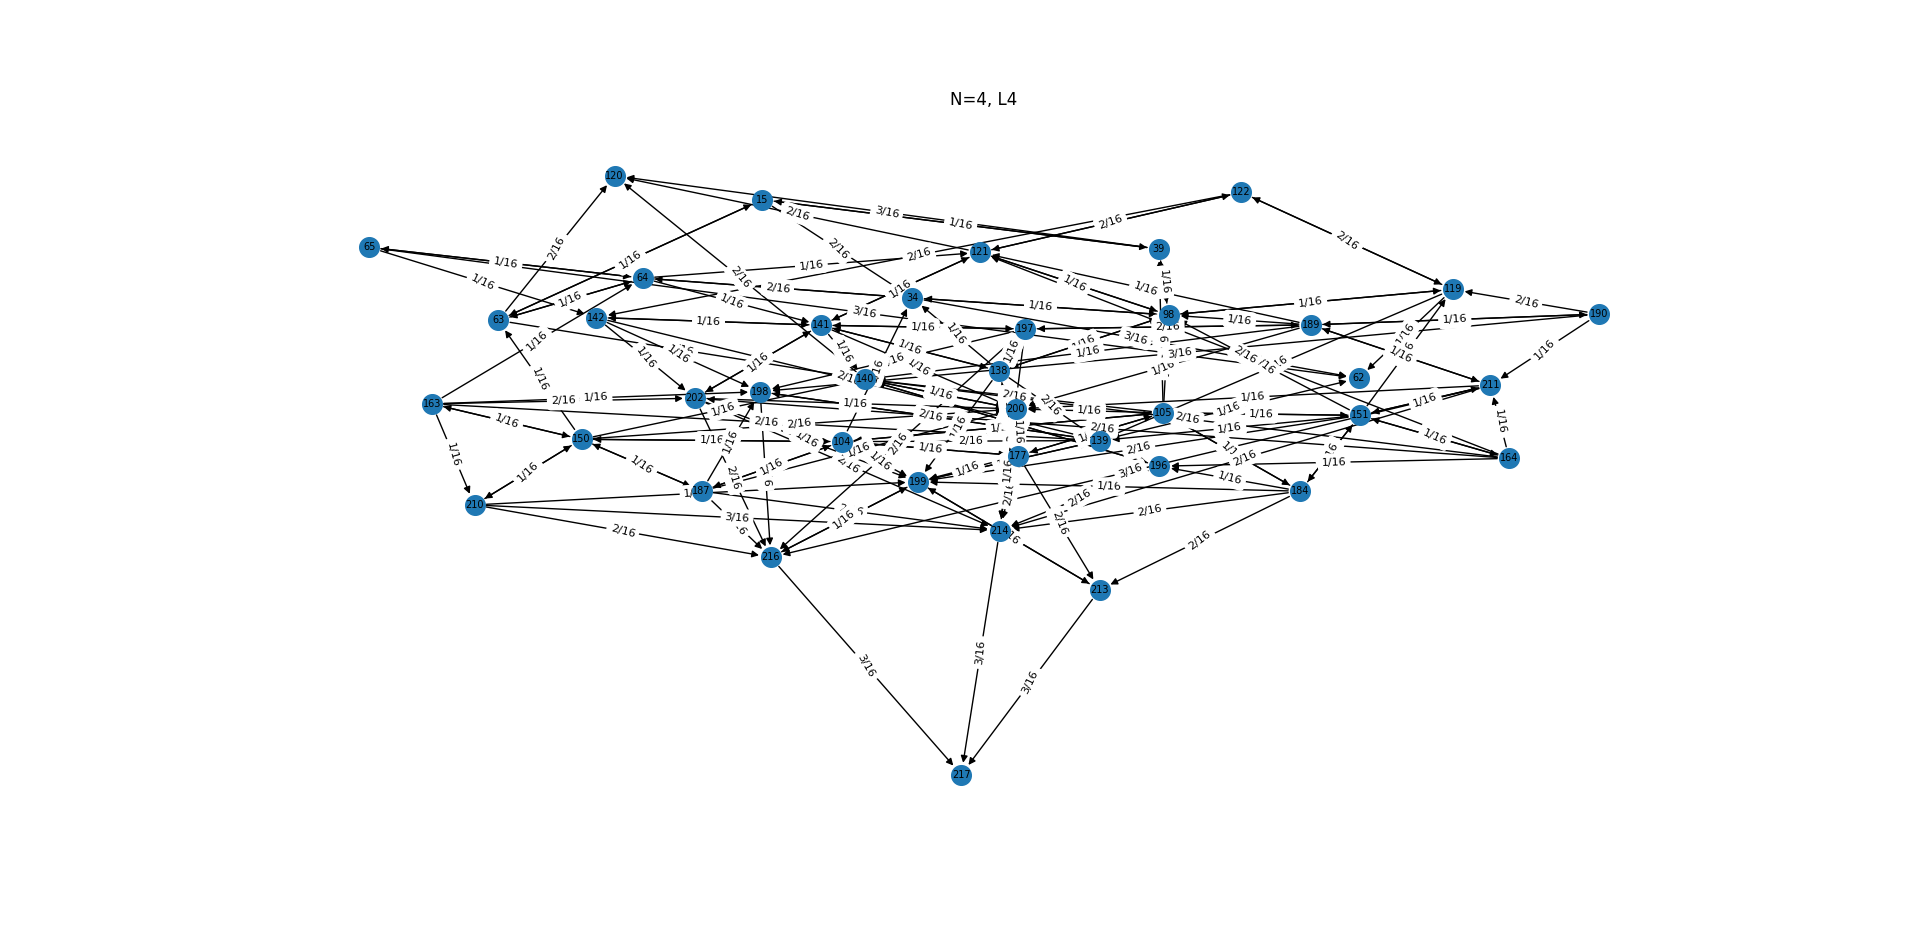
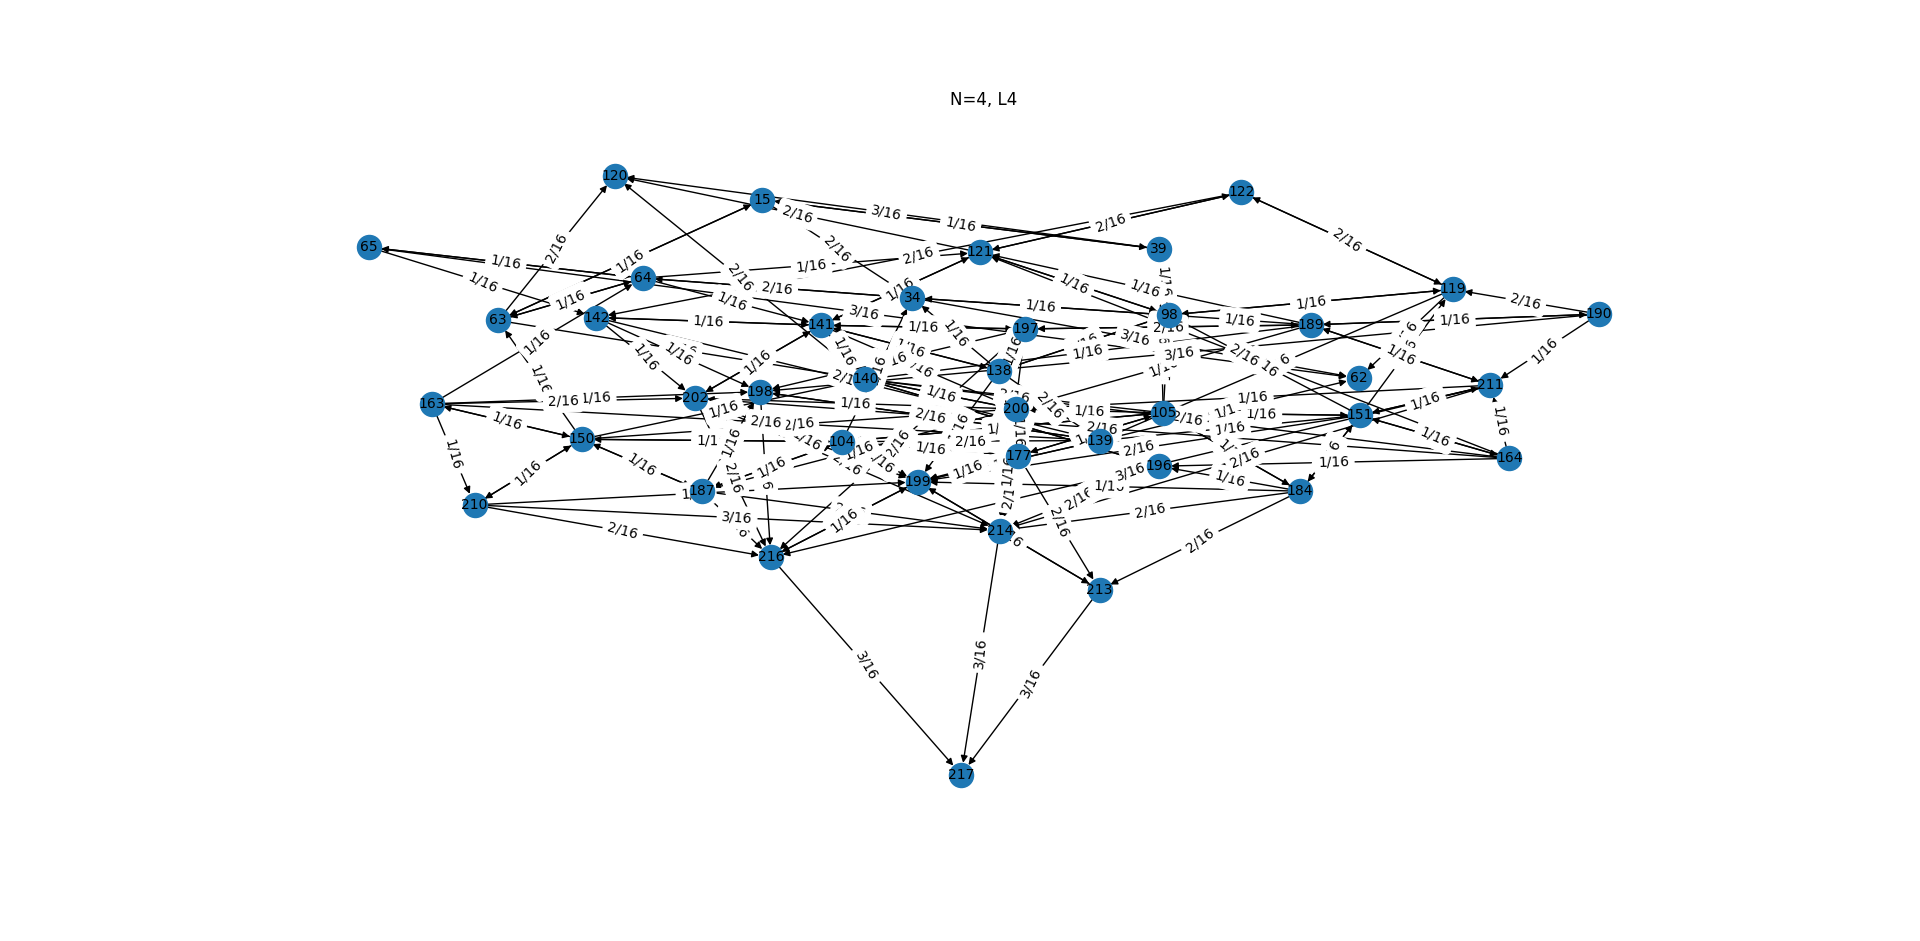
linear chained equation

diff --git a/Eigenvector/N5_power_method/Markov.py b/Eigenvector/N5_power_method/Markov.py
@@ -60,8 +60,8 @@ for i, j in G.edges():
 	group_i = group_info[i]
 	group_j = group_info[j]
 	prob = G.get_edge_data(i,j)['weight']
-	if (group_i == problem[0] and group_j == problem[1]):
-		print(i, j, prob)
+#	if (group_i == problem[0] and group_j == problem[1]):
+#		print(i, j, prob)
 	check_list.append([group_i, group_j, prob])
 
 big_node = []
@@ -126,10 +126,11 @@ straight_edges = list(set(G.edges()) - set(curved_edges))
 
 #degrees = [20*G.degree[node] for node in G.nodes()]
 #print(len(degrees))
-#print(len(G.nodes()))
+print(len(G.nodes()))
 #nx.draw_networkx_nodes(G, pos, node_size=degrees)
 
 pos = nx.kamada_kawai_layout(G)
+#pos = nx.spring_layout(G)
 #pos = nx.planar_layout(G)
 #for edge in G.edges(data='weight'):
 #    nx.draw_networkx_edges(G,pos,edgelist=[edge],width=edge[2])
@@ -141,15 +142,29 @@ plt.title("N={}, L{}".format(N,rule_idx))
 #nx.draw_networkx_edges(G, pos=pos, width=edge_weights, arrows=True)
 nx.draw_networkx_edges(G, pos=pos, arrows=True)
 #nx.draw_networkx_nodes(G, pos=pos, node_color=color_map, cmap=plt.cm.gist_ncar)
-nx.draw_networkx_nodes(G, pos=pos, node_size = 200)
+nx.draw_networkx_nodes(G, pos=pos, node_size = 300)
 
-nx.draw_networkx_labels(G, pos=pos,font_size = 7, labels={n: str(n) for n in G.nodes()}, font_color='black')
+nx.draw_networkx_labels(G, pos=pos,font_size = 10, labels={n: str(n) for n in G.nodes()}, font_color='black')
 
 #edge_labels = {(u, v): d['weight'] for u, v, d in G.edges(data=True)}
 edge_labels = {(u, v): "{}/{}".format(int(N*N*d['weight']),N*N) for u, v, d in G.edges(data=True)}
 
-# Draw edge labels
-nx.draw_networkx_edge_labels(G, pos, edge_labels=edge_labels, font_size = 8)
+check_arr = [big_node[0][0]]
+for arr in big_node:
+	i = arr[0]
+	if (i not in check_arr):
+		check_arr.append(i)
+		print("q{}".format(i), " == ", end="")
+		count = 0
+		for j in G.neighbors(i):
+			count += 1
+			w_ij = G.get_edge_data(i, j)['weight']
+			if (count < len(list(G.neighbors(i)))):
+				print("({}/{})".format(w_ij*N*N, N*N), "*q{}".format(j), "+", end="")
+			else:
+				print("({}/{})".format(w_ij*N*N, N*N), "*q{}".format(j))
+# 		Draw edge labels
+nx.draw_networkx_edge_labels(G, pos, edge_labels=edge_labels, font_size = 10)
 #nx.draw_networkx_edge_labels(G, pos=pos,font_size = 7, edge_labels=edge_weights_label, font_color='black')
 plt.show()
 
